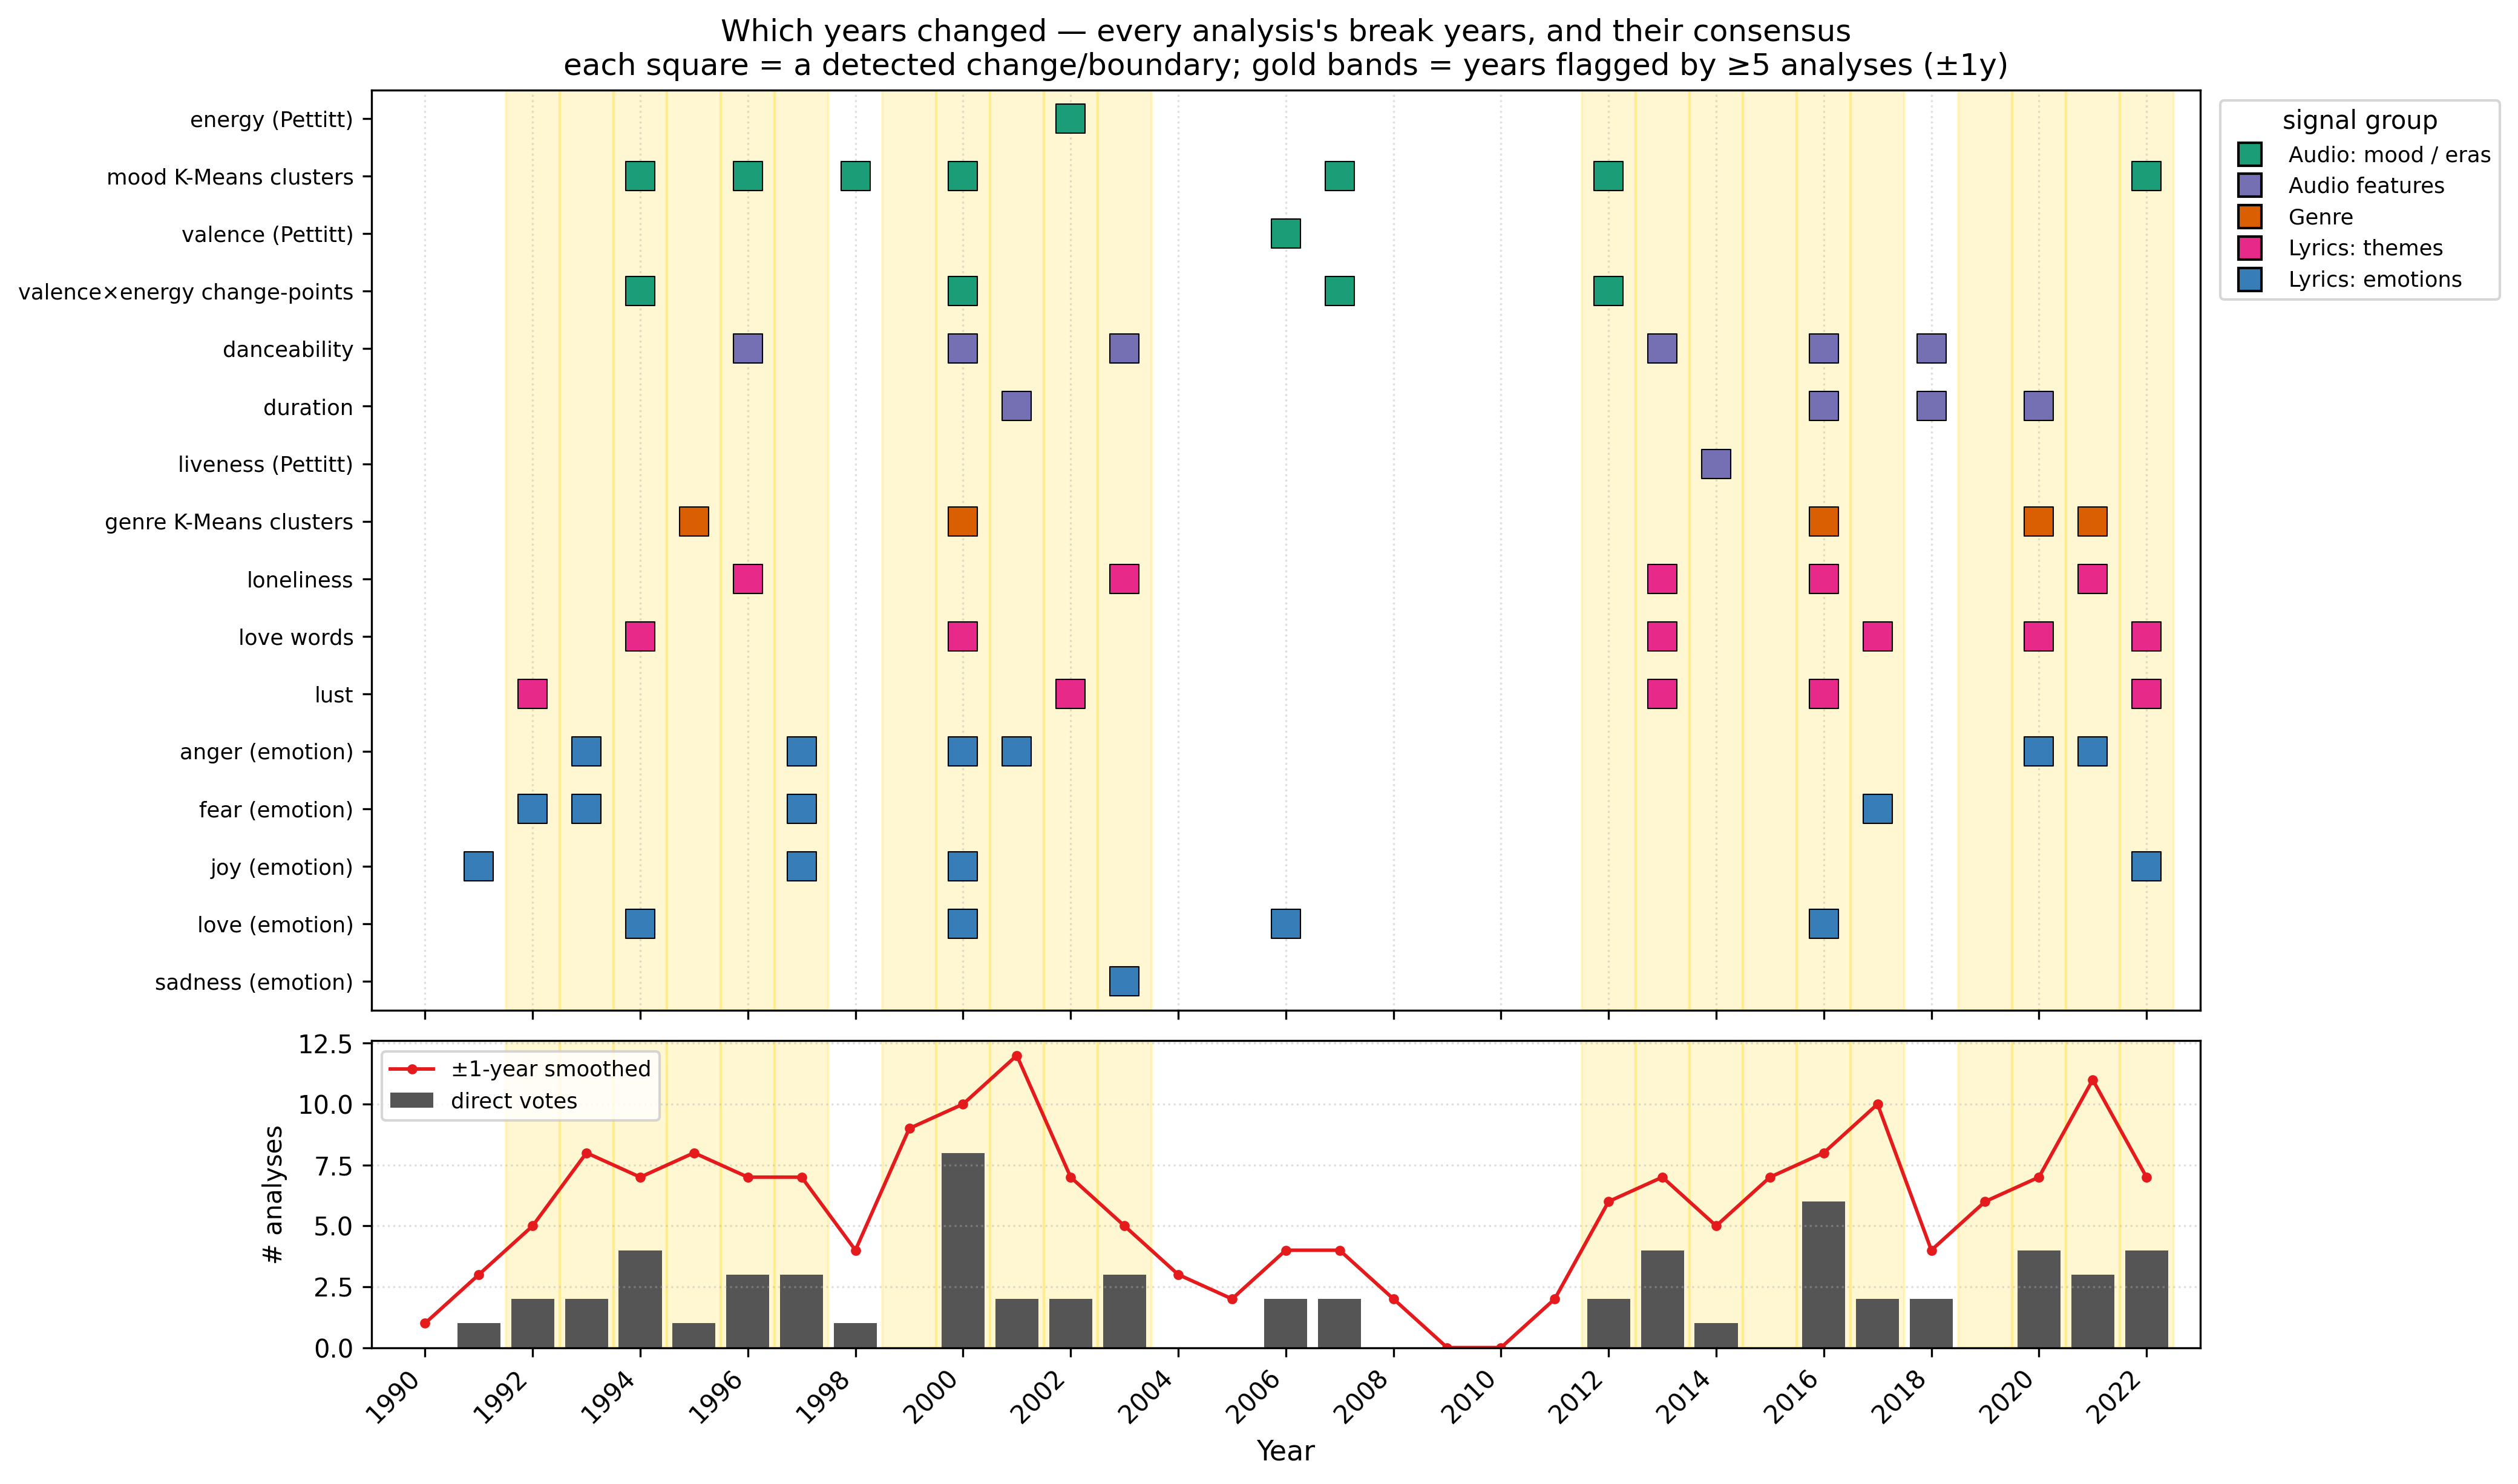
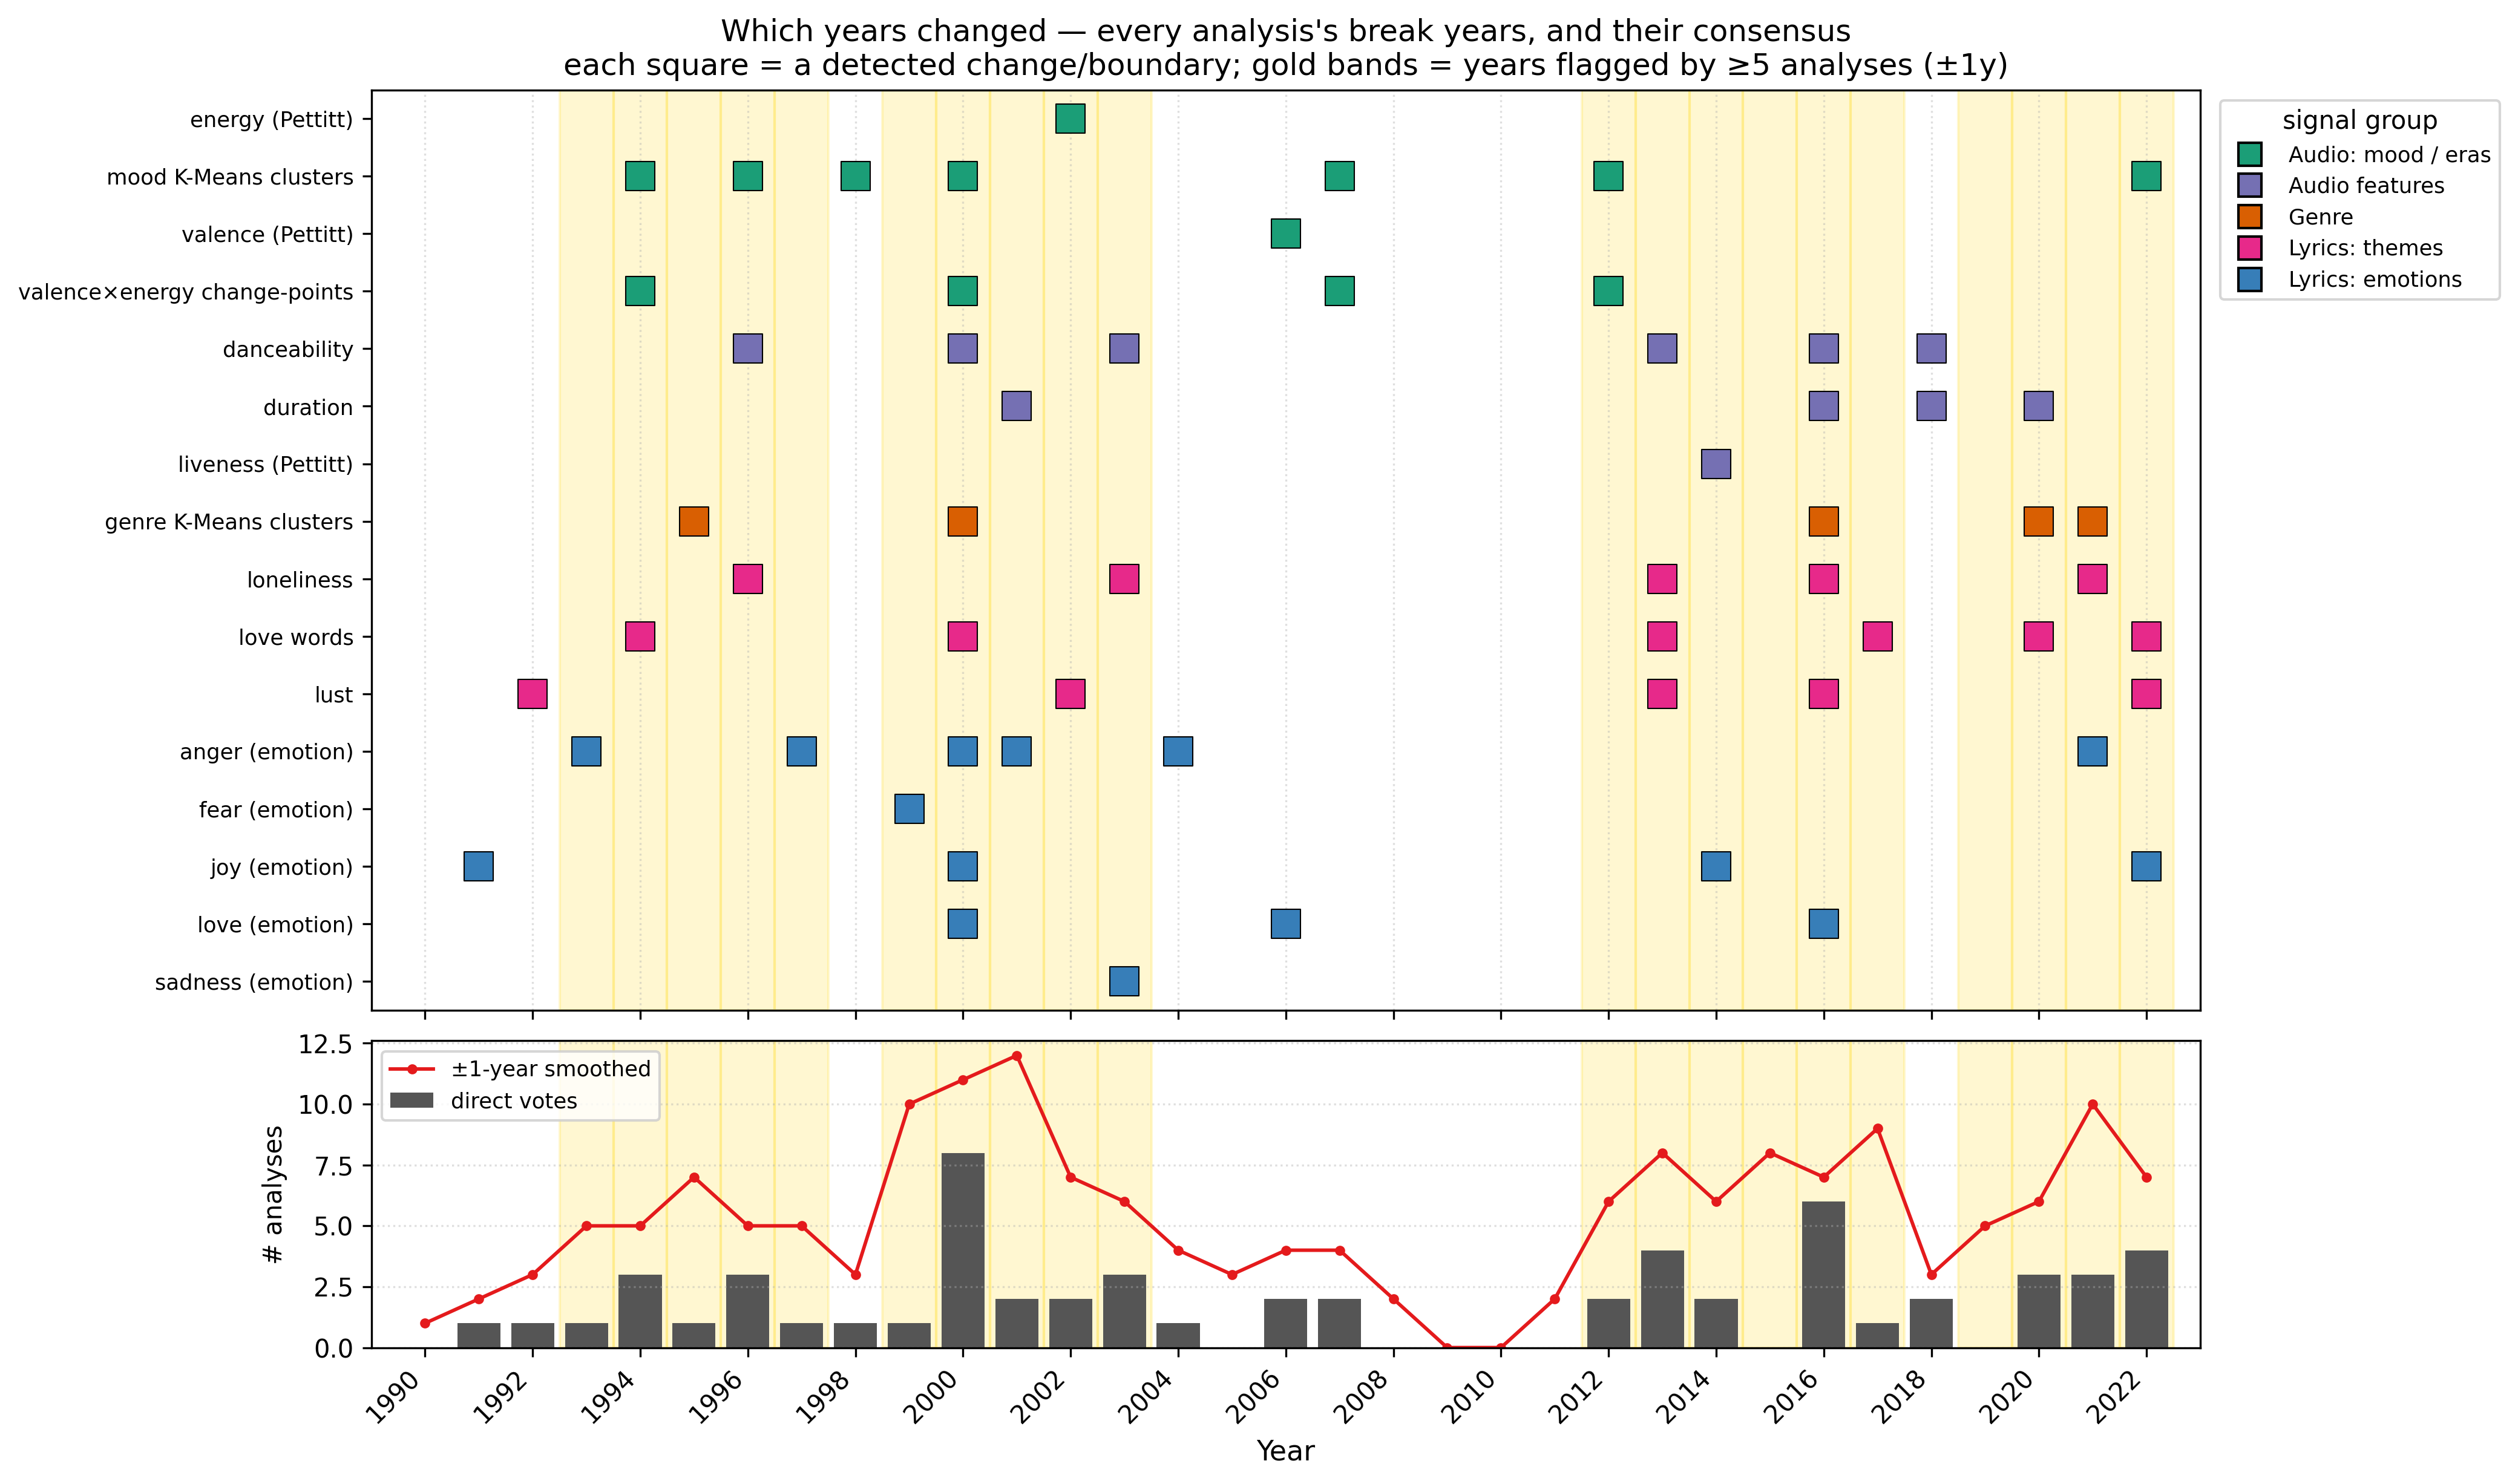
bert tie breaking

diff --git a/latex/report.tex b/latex/report.tex
@@ -19,14 +19,25 @@
 \author{\IEEEauthorblockN{Yürekçe Altın}
 \IEEEauthorblockA{\textit{Computer Engineering} \\
 \textit{Middle East Technical University}\\
-Ankara, Turkey \\
+Ankara, Türkiye \\
 [email redacted]}
 }
 
 \maketitle
 
 \begin{abstract}
-    How has the produced music changed over the last three decades? We analyze the emotional and sonic change in produced music from 1990 to 2022 using a dataset from Spotify which includes 489.761 songs, their lyrics and sonic features. A Spark pipeline and BERT lyrics-emotion classification, K-Means valence and energy era discovery, and Mann-Kendall change point testing has been made. Over 33 years, we find that from 1990 to 2022, valence 22\% , acousticness 29\%, and duration decreased, while energy 18\%, tempo +4.9BPM, and loudness have +3.7 dB increased. The lyrics contains less words about love and more words about loneliness. The dominant turning point is around 2000, which is consistent across all methods.
+    How has the produced music changed over the last three decades? 
+    We analyze the emotional and sonic change in produced music from 
+    1990 to 2022 using a dataset from Spotify which includes 489.761 
+    songs, their lyrics and sonic features. A Spark pipeline and BERT 
+    lyrics-emotion classification, K-Means valence and energy era 
+    discovery, and Mann-Kendall change point testing has been made. 
+    Over 33 years, we find that from 1990 to 2022, valence (22\%) , 
+    acousticness (29\%), and duration (decreased), while energy (18\%), 
+    tempo (+4.9BPM), and loudness (+3.7 dB) have increased. 
+    The lyrics contains less words about love and more words 
+    about loneliness. The dominant turning point is around 2000, 
+    which is consistent across all methods.
 \end{abstract}
 
 \begin{IEEEkeywords}
@@ -136,7 +147,10 @@ five emotions based on their highest probability, and after every chunk's
 highest probability emotion is found and added up with other chunks' emotion counts $c_e$ for
 $e \in \{\text{joy, sadness, anger, love, fear}\}$, the song's dominant emotion is 
 determined by the highest count, $\hat{e} = \arg\max_e c_e$. To ensure ties are broken
-fairly
+fairly, when $k$ emotions share the highest count we do not award the whole song to a
+single emotion; instead each tied emotion receives an equal vote of $1/k$. Every song
+therefore contributes a total weight of exactly one to its year, so the yearly emotion
+shares still sum to one while no emotion is favored by an arbitrary ordering.
 
 \subsection{Lexicon-Based Theme Detection}
 We also were curious about how the frequency of the words we associated with
@@ -193,8 +207,8 @@ decrease in duration with a Pettitt change point in 2016.
 In our analysis it seems to be that joy is the dominant emotion
 throughout the years, showing no significant trend. However, the other
 four emotions all do. 
-Love goes from 2.5\% in 1990 to 1.6\% in 2022, anger falls from 17.3\% to 15.0\%, 
-sadness rises from 19.6\% to 22.3\%, and fear rises from 1.3\% to 1.8\%.
+Love goes from 3.3\% in 1990 to 2.2\% in 2022, anger falls from 21.1\% to 18.1\%,
+sadness rises from 21.1\% to 23.4\%, and fear rises from 2.3\% to 2.5\%.
 Four of the five emotions are significant after FDR correction.
 
 \subsection{Lyric Themes: Love, Lust, and Loneliness}
@@ -309,10 +323,11 @@ with emotional expression, nuances and figurative language, which the model may
 have interpreted wrongly, and has fixed weights, so fine tuning is not possible.
 We have chosen 50 randomly selected songs and fed them into Claude Opus 4.8 Max
 and asked it to classify the lyrics into the five emotions, and compared the results.
-The LLM agent and BERT emotion model has disagreed in 33 out of 50 songs.
-The most disagreements arose from emotion joy, which Claude labeled
-as sadness (10 times), or love (10 times). It seems like the BERT model
-over-predicts joy. Third, we do not report any causal relationship 
+The LLM agent and BERT emotion model has disagreed in 32 out of 50 songs,
+with ties in the BERT chunk counts broken by the model's own summed confidence
+rather than an arbitrary ordering. The most disagreements arose from emotion joy,
+which Claude labeled as sadness (8 times), or love (8 times). It seems like the
+BERT model over-predicts joy. Third, we do not report any causal relationship 
 between results and external events, we only report their correlation.
 
 \begin{thebibliography}{00}

diff --git a/report_figures/emotion_trends.py b/report_figures/emotion_trends.py
@@ -3,8 +3,12 @@ Year-by-year evolution of the five BERT lyric emotions (joy, sadness, anger,
 love, fear), from the pipeline's final per-song output checkpoints/finalResult.
 
 Two complementary views are produced for each year 1990-2022:
-  * song-level   - share of songs whose DOMINANT emotion (song_emotion) is each
-                   class. This is the pipeline's headline label.
+  * song-level   - share of songs whose DOMINANT emotion is each class, computed
+                   tie-aware: when a song's top chunk-count is tied between k
+                   emotions, each tied emotion gets an equal 1/k vote instead of
+                   the whole song going to the first emotion in the list. Every
+                   song still contributes total weight 1, so each year's shares
+                   sum to 1. (The old single-winner rule biased ties toward joy.)
   * chunk-level  - share of all 8-line lyric chunks classified as each class
                    (sum of the per-song joy..fear counts). Finer-grained; uses
                    every chunk, not just each song's winner.
@@ -48,12 +52,26 @@ def load_final():
     return df
 
 
+def tie_aware_weights(df):
+    """(len(df) x 5) weight matrix: each song spreads weight 1 equally over the
+    k emotions tied for its max chunk-count (1/k each). Songs with no classified
+    chunks (all-zero) get zero weight. This removes the joy bias of the
+    single-winner argmax, which awarded the whole song to the first tied emotion
+    in [joy, sadness, anger, love, fear]."""
+    counts = df[EMOTIONS].to_numpy(dtype=float)
+    maxes = counts.max(axis=1, keepdims=True)
+    winners = (counts == maxes) & (maxes > 0)        # tied maxima
+    k = winners.sum(axis=1, keepdims=True)           # how many tied
+    return np.divide(winners, k, out=np.zeros_like(counts), where=k > 0)
+
+
 def shares(df):
     """Return (song_level, chunk_level) DataFrames indexed by year, columns =
     EMOTIONS, each row summing to 1."""
-    # song-level: count songs per (year, dominant emotion)
-    song = (df.groupby(["year", "song_emotion"]).size()
-              .unstack("song_emotion").reindex(columns=EMOTIONS).fillna(0.0))
+    # song-level: tie-aware 1/k vote per song, summed per year
+    w = pd.DataFrame(tie_aware_weights(df), columns=EMOTIONS)
+    w["year"] = df["year"].to_numpy()
+    song = w.groupby("year")[EMOTIONS].sum()
     song = song.div(song.sum(axis=1), axis=0).sort_index()
 
     # chunk-level: sum the per-song chunk counts per year
@@ -82,8 +100,8 @@ def analyze():
     df = load_final()
     song, chunk = shares(df)
 
-    overall = df["song_emotion"].value_counts().reindex(EMOTIONS)
-    print("\nOverall dominant-emotion counts:")
+    overall = pd.Series(tie_aware_weights(df).sum(axis=0), index=EMOTIONS)
+    print("\nOverall dominant-emotion weight (tie-aware 1/k):")
     print((overall.to_frame("songs")
            .assign(pct=lambda d: (d.songs / d.songs.sum() * 100).round(1))).to_string())
 